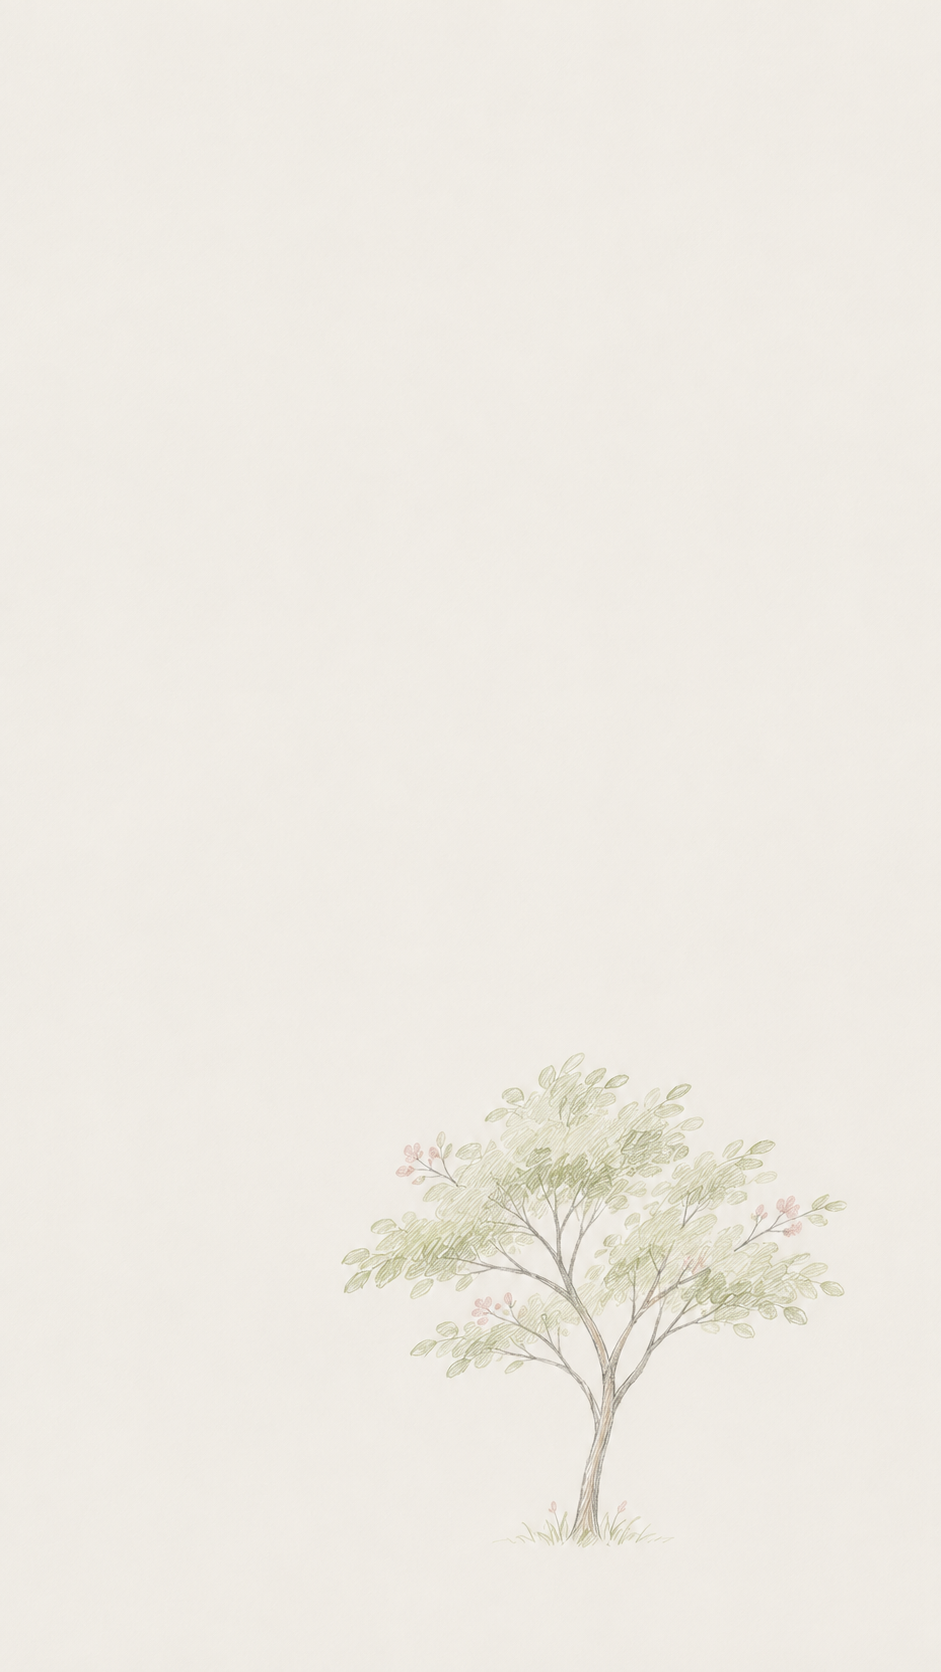
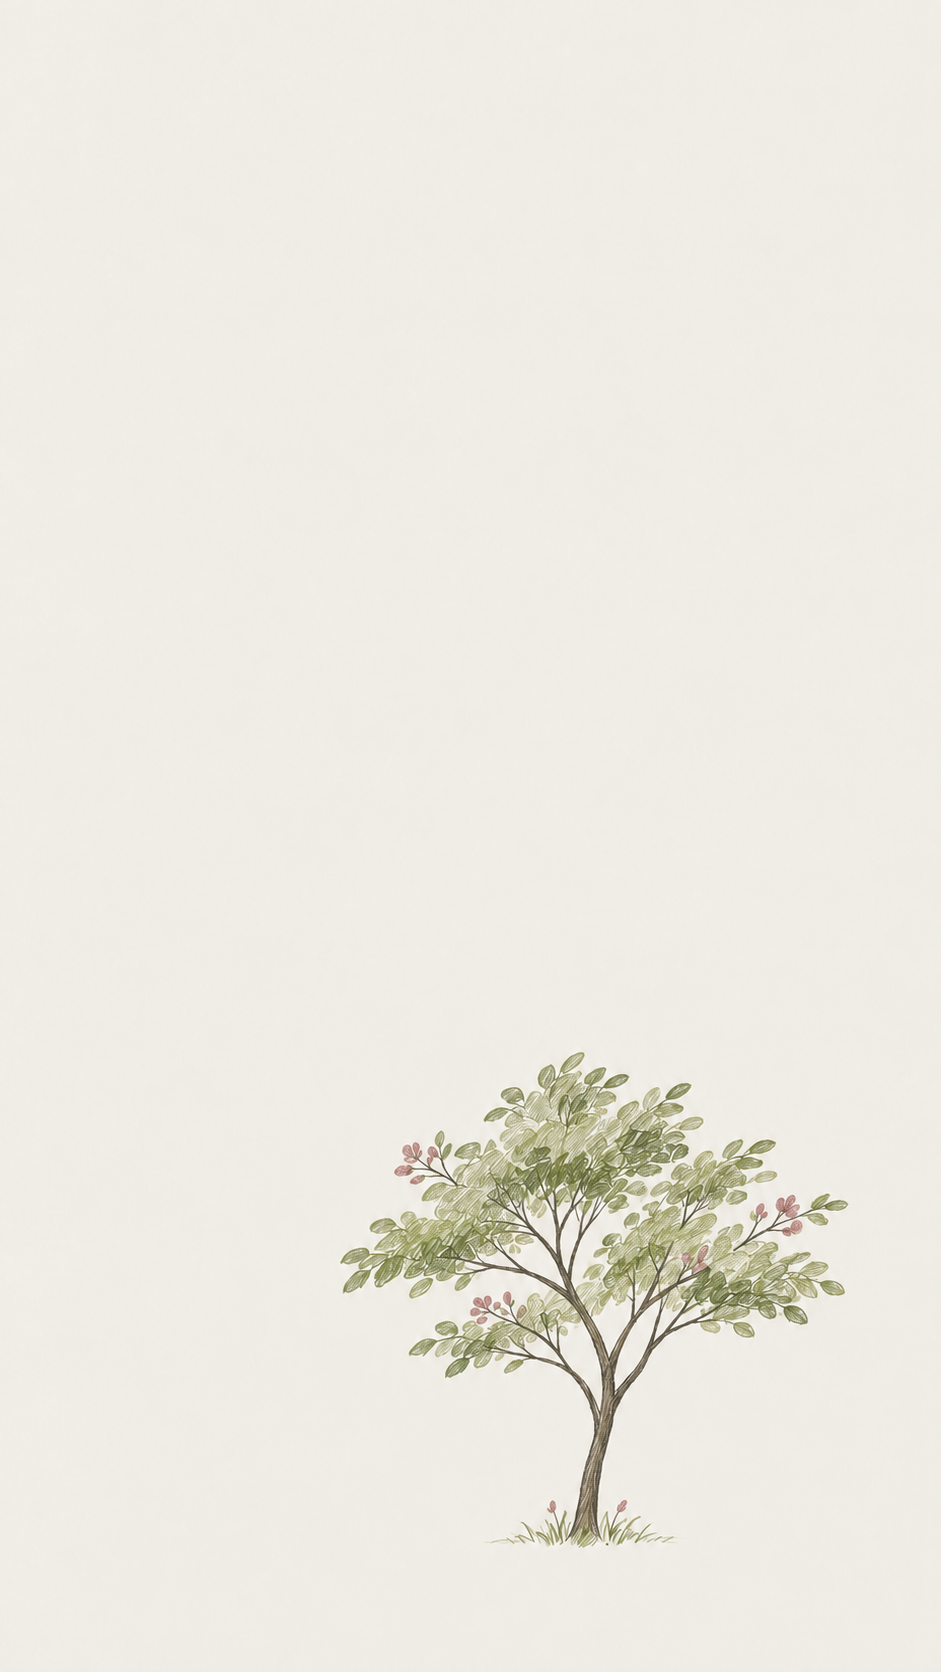
Fix botanical theme CI and notification stamp artwork

Changed region(s): [[0.3698, 0.622, 0.8937, 0.933]]

diff --git a/tests/test_little_details.py b/tests/test_little_details.py
@@ -1,5 +1,5 @@
 #!/usr/bin/env python3
-"""Paper's small touches: the waking cat, workspace paw and lock-screen hearts."""
+"""Paper's field-note greeting, lock-screen feedback and quiet prompt."""
 import re
 import shutil
 import subprocess
@@ -12,24 +12,6 @@ QML = ROOT / "shared/quickshell/foxml"
 
 
 class LittleDetails(unittest.TestCase):
-    def test_cat_follows_the_idle_inhibitor_only_on_paper(self):
-        module = (QML / "BarModule.qml").read_text()
-        self.assertIn('catPill: name === "idle_inhibitor" && theme.paperDetails', module)
-        self.assertIn("awake: module.dataSource.idleEnabled", module)
-        self.assertIn("!module.catPill", module)
-        cat = (QML / "CatNap.qml").read_text()
-        self.assertRegex(cat, r"if \(!awake && !hungry\)")
-        self.assertRegex(cat, r"if \(awake \|\| hungry\)")
-
-    def test_hunger_and_music_stay_on_the_paper_cat(self):
-        module = (QML / "BarModule.qml").read_text()
-        self.assertIn('catHungry: name === "idle_inhibitor" && theme.paperDetails', module)
-        self.assertIn('catListening: name === "idle_inhibitor" && theme.paperDetails', module)
-        # The note drifts once per tick; an always-running animation would repaint the bar for a whole album.
-        cat = (QML / "CatNap.qml").read_text()
-        self.assertNotIn("loops: Animation.Infinite", cat)
-        self.assertIn("running: cat.music", cat)
-
     def test_goodnight_is_a_paper_power_page_detail(self):
         shell = (QML / "shell.qml").read_text()
         self.assertIn('theme.paperDetails && root.page === "power" && Logic.isNight(new Date())', shell)
@@ -42,20 +24,24 @@ class LittleDetails(unittest.TestCase):
             message = re.search(r"(?m)^HYPRLOCK_FAIL_TEXT='(.*)'$", text)
             self.assertIsNotNone(message, palette.parent.name)
             self.assertIn("$FAIL", message.group(1), "the real reason must stay visible")
-            self.assertEqual("♡" in message.group(1), paper)
+            self.assertNotIn("♡", message.group(1))
+            if paper:
+                self.assertEqual(message.group(1), "<i>try again · $FAIL</i>")
 
-    def test_paw_marks_only_the_active_workspace_on_paper(self):
+    def test_pencil_mark_follows_the_active_workspace_on_paper(self):
         bar = (QML / "BarWorkspaces.qml").read_text()
         self.assertIn("visible: tab.current && workspaces.theme.paperDetails", bar)
 
-    def test_only_paper_types_hearts(self):
+    def test_paper_password_uses_plain_dots(self):
         for palette in sorted((ROOT / "themes").glob("*/palette.sh")):
             style = re.search(r"^HYPRLOCK_DOTS_STYLE='?([^'\n]*)", palette.read_text(), re.M)
-            hearts = bool(style) and "♡" in style.group(1)
-            self.assertEqual(hearts, palette.parent.name == "FoxML_Paper", palette.parent.name)
+            if style:
+                self.assertNotIn("♡", style.group(1), palette.parent.name)
+            if palette.parent.name == "FoxML_Paper":
+                self.assertEqual(style.group(1), "dots_text_format = •")
 
 
-class TerminalCat(unittest.TestCase):
+class TerminalNotes(unittest.TestCase):
     def render(self, tmp):
         renderer = ROOT / "src/fox-render/fox-render-fast"
         if not renderer.exists():
@@ -77,27 +63,35 @@ _caramel_welcome_centered Friday 'November 6' '9:00 pm'
             return subprocess.run(["zsh", "-f", "-c", script], capture_output=True, text=True, timeout=10, check=True).stdout.split("MARK")[-1]
 
     @unittest.skipUnless(shutil.which("zsh"), "zsh is required")
-    def test_greeting_and_eyes_follow_the_hour(self):
-        for hour, greeting, sleepy in ((9, "good morning, fox", False), (13, "good afternoon, fox", False),
-                                       (19, "good evening, fox", False), (22, "still up?", True), (4, "still up?", True)):
-            with self.subTest(hour=hour):
-                out = self.welcome(hour)
-                self.assertIn(greeting, out)
-                self.assertEqual("。" not in out, sleepy)
+    def test_field_note_heading_keeps_the_day_and_date(self):
+        out = self.welcome(9)
+        self.assertIn("Friday", out)
+        self.assertIn("November 6", out)
+        self.assertIn("9:00 pm", out)
+        self.assertNotIn("ᓚᘏᗢ", out)
+        self.assertNotIn("♡", out)
 
     @unittest.skipUnless(shutil.which("zsh"), "zsh is required")
-    def test_worried_face_shows_once_and_never_for_interrupts(self):
+    def test_failed_commands_keep_the_numeric_status_without_a_mascot(self):
         with tempfile.TemporaryDirectory() as tmp:
             self.render(tmp)
             script = f"""
 autoload -Uz add-zsh-hook
-source <(sed -n '/^_caramel_timer_start=0/,/^add-zsh-hook preexec/p;/^_fox_err=/p;/^typeset -gi _caramel_paper/,/^\[\[/p' {tmp}/caramel.zsh-theme)
-source <(sed -n '/^function caramel_precmd/,/^  # ── Command execution time/p' {tmp}/caramel.zsh-theme; print '}}')
-check() {{ _caramel_timer_start=$2; (exit $1); caramel_precmd; [[ $PROMPT_INDICATOR == *'(=;ω;=)'* ]] && print yes || print no; }}
-check 1 5; check 1 0; check 130 5; check 148 5; check 0 5
+source {tmp}/caramel.zsh-theme
+check() {{ _caramel_timer_start=0; (exit $1); caramel_precmd; print -r -- "$PROMPT_INDICATOR"; }}
+check 1; check 130; check 148; check 0
 """
             out = subprocess.run(["zsh", "-f", "-c", script], capture_output=True, text=True, timeout=10)
-            self.assertEqual(out.stdout.split(), ["yes", "no", "no", "no", "no"], out.stderr)
+            self.assertEqual(out.returncode, 0, out.stderr)
+            lines = out.stdout.splitlines()
+            self.assertEqual(len(lines), 4, out.stdout + out.stderr)
+            for line, code in zip(lines, [1, 130, 148, 0]):
+                self.assertIn("❯", line)
+                if code:
+                    self.assertIn(f"❯ {code}", line)
+                else:
+                    self.assertNotIn("❯ 0", line)
+                self.assertNotIn("ω", line)
 
 
 if __name__ == "__main__":

diff --git a/src/fox-mako/paper-stamp.h b/src/fox-mako/paper-stamp.h
@@ -24,15 +24,6 @@ static bool foxml_stamp_bounds(PangoLayout *layout, PangoRectangle *bounds) {
     return bounds->width > 0 && bounds->height > 0;
 }
 
-static void foxml_stamp_pad(cairo_t *cr, double x, double y, double rx, double ry) {
-    cairo_save(cr);
-    cairo_translate(cr, x, y);
-    cairo_scale(cr, rx, ry);
-    cairo_new_sub_path(cr);
-    cairo_arc(cr, 0, 0, 1, 0, 6.2832);
-    cairo_restore(cr);
-}
-
 static void foxml_stamp_frame(cairo_t *cr, PangoLayout *layout,
         double origin_x, double origin_y, uint32_t ink, int scale) {
     PangoRectangle bounds;
@@ -59,14 +50,23 @@ static void foxml_stamp_frame(cairo_t *cr, PangoLayout *layout,
     cairo_line_to(cr, x + w, y + 1.2 * scale);
     cairo_line_to(cr, x + w * .37, y);
     cairo_stroke(cr);
-    // A small paw beside the frame, in the same faint stamp ink.
+    // A small pencil sprig beside the frame, in the same faint stamp ink.
     double px = x + w + 8 * scale, py = y + h / 2 + scale;
+    cairo_translate(cr, px, py);
+    cairo_scale(cr, scale, scale);
+    cairo_set_line_width(cr, .7);
     cairo_new_path(cr);
-    foxml_stamp_pad(cr, px, py + scale, 2.6 * scale, 2.1 * scale);
-    foxml_stamp_pad(cr, px - 3.4 * scale, py - 1.4 * scale, 1.05 * scale, 1.3 * scale);
-    foxml_stamp_pad(cr, px - 1.2 * scale, py - 3.4 * scale, 1.05 * scale, 1.35 * scale);
-    foxml_stamp_pad(cr, px + 1.2 * scale, py - 3.4 * scale, 1.05 * scale, 1.35 * scale);
-    foxml_stamp_pad(cr, px + 3.4 * scale, py - 1.4 * scale, 1.05 * scale, 1.3 * scale);
-    cairo_fill(cr);
+    cairo_move_to(cr, -2.5, 5);
+    cairo_curve_to(cr, 0, 2, -.5, -2, 2, -6);
+    cairo_move_to(cr, -1, 2.5);
+    cairo_curve_to(cr, -4, 2, -4.5, -.5, -4.5, -1.5);
+    cairo_curve_to(cr, -2, -1, -1, .5, -1, 2.5);
+    cairo_move_to(cr, 0, 0);
+    cairo_curve_to(cr, 0, -2, 2.5, -3, 4.5, -3);
+    cairo_curve_to(cr, 4, -.5, 2, .5, 0, 0);
+    cairo_move_to(cr, 1, -3.5);
+    cairo_curve_to(cr, -1.5, -3.5, -2.5, -5, -2, -6.5);
+    cairo_curve_to(cr, 0, -6.5, 1, -5, 1, -3.5);
+    cairo_stroke(cr);
     cairo_restore(cr);
 }

diff --git a/tests/test_tmux_pane_info.py b/tests/test_tmux_pane_info.py
@@ -1,4 +1,4 @@
-"""The tmux pane footer marks a Claude session that needs you (♡) or is working (✿)."""
+"""The tmux pane footer marks a Claude session that needs you (!) or is working (✿)."""
 import json
 import os
 from pathlib import Path
@@ -28,13 +28,13 @@ class PaneFooter(unittest.TestCase):
         self.put("a", "needs", "%7")
         self.put("b", "working", "%8")
         self.put("c", "waiting", "%9")
-        self.assertTrue(self.footer("claude", "%7").startswith(" ♡  "))
+        self.assertTrue(self.footer("claude", "%7").startswith(" !  "))
         self.assertTrue(self.footer("claude", "%8").startswith(" ✿  "))
-        self.assertFalse(self.footer("claude", "%9").startswith((" ♡", " ✿")), "waiting is quiet")
-        self.assertFalse(self.footer("zsh", "%7").startswith(" ♡"), "back at a shell: the session is gone")
-        self.assertFalse(self.footer("claude", "%70").startswith(" ♡"), "%7 is not %70")
-        self.assertFalse(self.footer("claude", "%7;rm").startswith(" ♡"), "only a pane id is looked up")
-        self.assertFalse(self.footer("claude", "").startswith(" ♡"), "no pane id, no mark")
+        self.assertFalse(self.footer("claude", "%9").startswith((" !", " ✿")), "waiting is quiet")
+        self.assertFalse(self.footer("zsh", "%7").startswith(" !"), "back at a shell: the session is gone")
+        self.assertFalse(self.footer("claude", "%70").startswith(" !"), "%7 is not %70")
+        self.assertFalse(self.footer("claude", "%7;rm").startswith(" !"), "only a pane id is looked up")
+        self.assertFalse(self.footer("claude", "").startswith(" !"), "no pane id, no mark")
 
 
 if __name__ == "__main__":

diff --git a/previews/soft-paper/README.md b/previews/soft-paper/README.md
@@ -21,8 +21,12 @@ The current `shared/wallpapers/foxml_paper_botanical.png` wallpaper and transpar
 imagegen tool using the existing colored-pencil tree as a style reference.
 Their full prompts are in `shared/wallpapers/botanical-prompts.json`; the earlier
 companion-set prompts remain in `shared/wallpapers/paper-prompts.json`.
+The tree uses stronger pencil pigment to remain visible behind 70% opaque paper.
 The preview references production assets directly and uses locally installed Monaspice fonts.
 
 `native-bar.png` and `native-drawer.png` capture the actual QML components with
 isolated example data. They show the selected rounded wide banners and turned
 page corner. No private desktop contents are included.
+
+`notification-stamp.png` renders the native notification stamp and its pencil
+sprig using Cairo and Pango with example text.

diff --git a/README.md b/README.md
@@ -785,7 +785,7 @@ while process text and window frames retain their existing colors. Thunar filena
 selections use blush with soft pencil edges. Native Mako notes add a small RECEIVED
 stamp, with room for the body; explicit saved/copied/ready categories give that stamp
 useful words without repeating them in the title. A faint, broken pencil outline
-frames those stamps in the native renderer; stock Mako keeps the blush text labels.
+frames those stamps with a small pencil sprig in the native renderer; stock Mako keeps the blush text labels.
 DND is applied after all app styles.
 Volume OSDs retain their compact format; workspace notices use the banner and replace
 the previous workspace notice. Yazi uses current theme sections

diff --git a/shared/wallpapers/README.md b/shared/wallpapers/README.md
@@ -12,3 +12,5 @@ tree on displays to the left and quiet paper on the right. This wallpaper and
 `shared/quickshell/foxml/paper-sprig.png` were generated with the built-in imagegen
 tool using the tree as a style reference. Their prompts are saved in
 `shared/wallpapers/botanical-prompts.json`. The older cat artwork remains available.
+The tree's pencil pigment was strengthened in place so its branches and leaves
+remain visible through a 70% opaque terminal; that edit's prompt is saved there too.

diff --git a/KEYBINDS.md b/KEYBINDS.md
@@ -557,6 +557,7 @@ Shows indent guides automatically. No keybinds.
 | `ALT + F` | Firefox |
 | `ALT + Shift + C` | Cursor (code editor) |
 | `ALT + Shift + D` | FoxML drawers — apps, connections, sound, comfort and system |
+| `ALT + SPACE` | Find anything: open with the search field already focused |
 | `ALT + C` | Calendar beneath the clock banner (toggle) |
 | `ALT + Shift + M` | Steam |
 | `ALT + Shift + Y` | Yazi file manager (toggle) |
